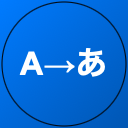
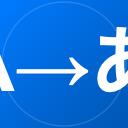
iconサイズ微修正

diff --git a/create-icons.html b/create-icons.html
@@ -24,43 +24,50 @@
       ctx.fillRect(0, 0, size, size);
 
       // 丸みを帯びた境界
-      ctx.fillStyle = 'rgba(255, 255, 255, 0.2)';
+      ctx.strokeStyle = 'rgba(255, 255, 255, 0.2)';
       ctx.beginPath();
       ctx.arc(size / 2, size / 2, size / 2 - 2, 0, Math.PI * 2);
       ctx.stroke();
 
-      // テキスト (翻訳を表す「A→あ」)
+      // テキスト (翻訳を表す「T」)
       ctx.fillStyle = 'white';
-      ctx.font = `bold ${size * 0.25}px Arial`;
+      ctx.font = `bold ${size * 0.6}px Arial`;
       ctx.textAlign = 'center';
       ctx.textBaseline = 'middle';
-
       if (size >= 48) {
         ctx.fillText('A→あ', size / 2, size / 2);
       } else {
-        ctx.fillText('翻', size / 2, size / 2);
+        ctx.fillText('T', size / 2, size / 2);
       }
+
 
       return canvas;
     }
 
     function downloadCanvas(canvas, filename) {
-      canvas.toBlob((blob) => {
-        const url = URL.createObjectURL(blob);
-        const a = document.createElement('a');
-        a.href = url;
-        a.download = filename;
-        a.click();
-        URL.revokeObjectURL(url);
+      return new Promise(resolve => {
+        canvas.toBlob((blob) => {
+          const url = URL.createObjectURL(blob);
+          const a = document.createElement('a');
+          a.href = url;
+          a.download = filename;
+          document.body.appendChild(a);
+          a.click();
+          document.body.removeChild(a);
+          URL.revokeObjectURL(url);
+          resolve();
+        });
       });
     }
 
-    function createIcons() {
+    async function createIcons() {
       const sizes = [16, 48, 128];
-      sizes.forEach(size => {
+      for (const size of sizes) {
         const canvas = createIcon(size);
-        downloadCanvas(canvas, `icon${size}.png`);
-      });
+        await downloadCanvas(canvas, `icon${size}.png`);
+        // Add a small delay between downloads to be safe
+        await new Promise(resolve => setTimeout(resolve, 100));
+      }
       alert('3つのアイコンファイル（icon16.png, icon48.png, icon128.png）がダウンロードされました。\nこれらのファイルを拡張機能のフォルダに配置してください。');
     }
   </script>
